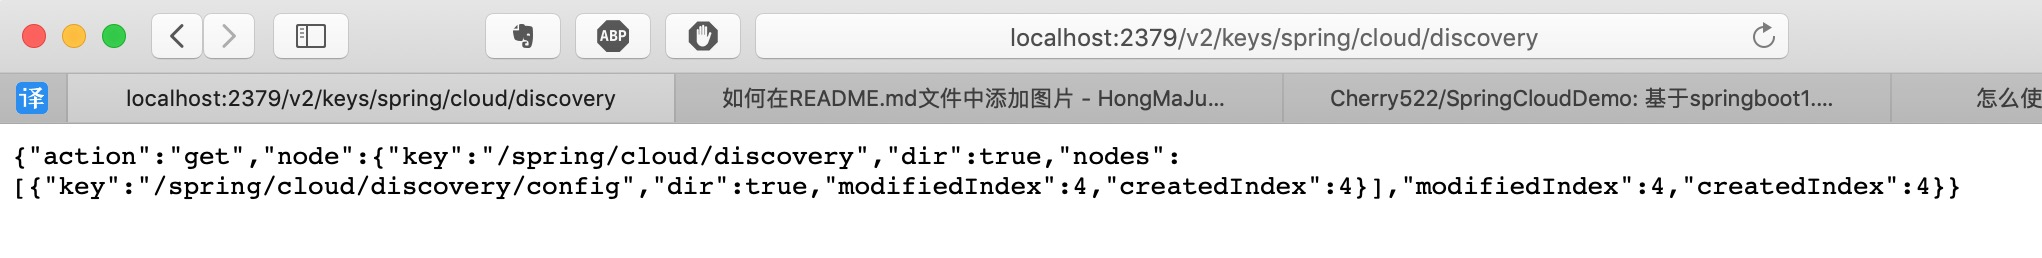
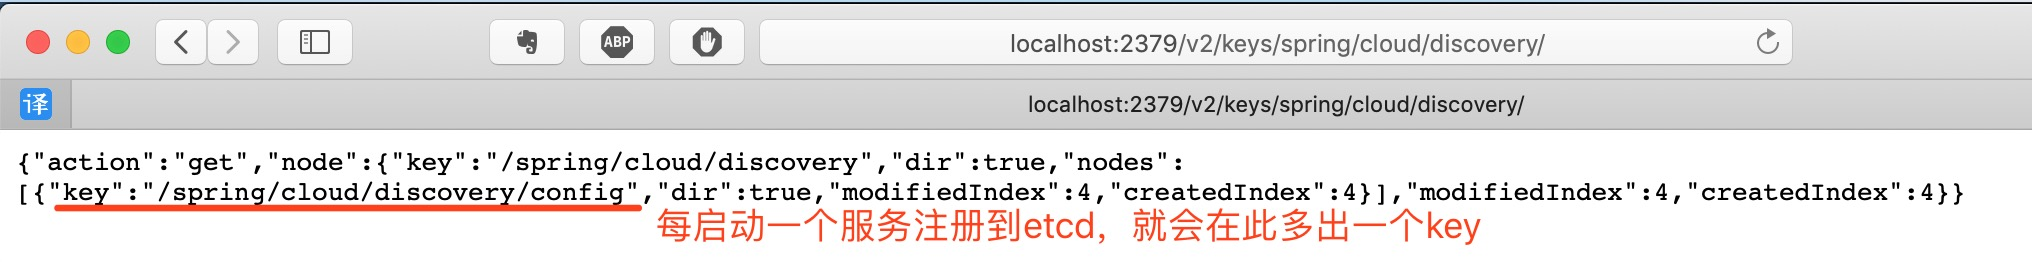
添加etcd的图片引用

diff --git a/README.md b/README.md
@@ -28,3 +28,11 @@ docker run -d \
 ##### 注册服务到etcd后
 启动config服务，config服务注册到etcd后，再次访问etcd，显示页面如下：
 ![Image text](https://github.com/Cherry522/SpringCloudDemo/blob/master/README-img/etcd-2.jpg)
+
+##### 通过在etcd上查看服务是否具体启动成功
+浏览器访问：`http://localhost:2379/v2/keys/在etcd上的key的名字`
+比如:`http://localhost:2379/v2/keys/spring/cloud/discovery/config`
+![Image text](https://github.com/Cherry522/SpringCloudDemo/blob/master/README-img/etcd-3.jpg)
+
+
+
